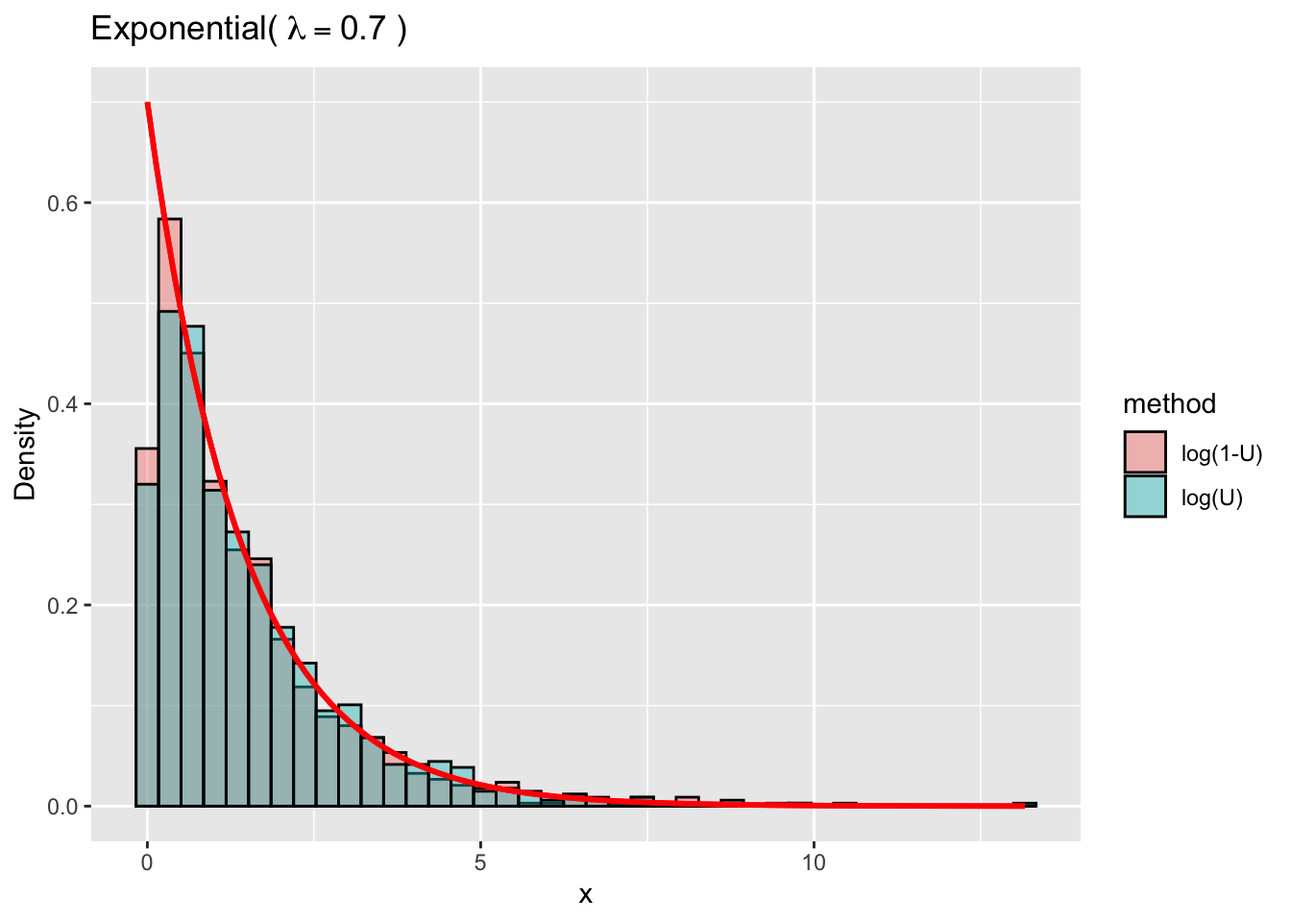
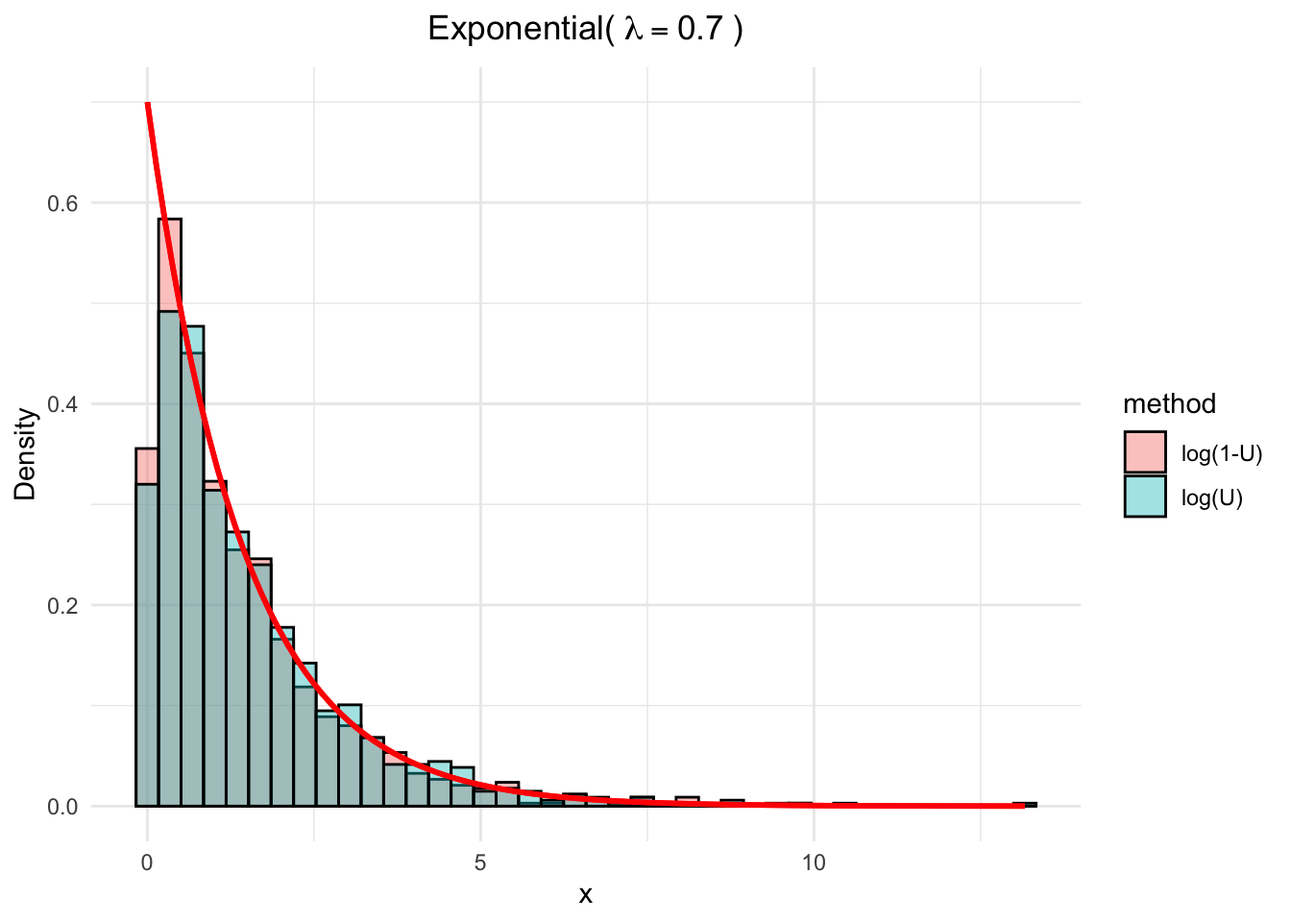
update Section 3

diff --git a/course/stat8670/03-generating-rv.html b/course/stat8670/03-generating-rv.html
@@ -480,30 +480,21 @@ P\left(F_X^{-1}(U) \leq x\right) &amp; =P\left(\inf \left\{t: F_X(t)=U\right\} \
 <li><p>Simulate <span class="math inline">\(N=1000\)</span> rvs from <span class="math inline">\(u\sum \operatorname{Unif}(0,1)\)</span> and apply the inverse function to obtain the 1000 <span class="math inline">\(x\)</span> values.</p></li>
 </ol>
 <div class="cell">
-<div class="code-copy-outer-scaffold"><div class="sourceCode cell-code" id="cb7"><pre class="sourceCode r code-with-copy"><code class="sourceCode r"><span id="cb7-1"><a href="#cb7-1" aria-hidden="true" tabindex="-1"></a><span class="fu">library</span>(ggplot2)</span>
-<span id="cb7-2"><a href="#cb7-2" aria-hidden="true" tabindex="-1"></a><span class="fu">set.seed</span>(<span class="dv">777</span>)</span>
-<span id="cb7-3"><a href="#cb7-3" aria-hidden="true" tabindex="-1"></a>N <span class="ot">&lt;-</span> <span class="dv">1000</span></span>
-<span id="cb7-4"><a href="#cb7-4" aria-hidden="true" tabindex="-1"></a>uVec <span class="ot">&lt;-</span> <span class="fu">runif</span>(N)</span>
-<span id="cb7-5"><a href="#cb7-5" aria-hidden="true" tabindex="-1"></a>xVec <span class="ot">&lt;-</span> uVec<span class="sc">^</span>(<span class="dv">1</span><span class="sc">/</span><span class="dv">3</span>)</span>
-<span id="cb7-6"><a href="#cb7-6" aria-hidden="true" tabindex="-1"></a></span>
-<span id="cb7-7"><a href="#cb7-7" aria-hidden="true" tabindex="-1"></a>df <span class="ot">&lt;-</span> <span class="fu">data.frame</span>(<span class="at">x =</span> xVec)</span>
-<span id="cb7-8"><a href="#cb7-8" aria-hidden="true" tabindex="-1"></a></span>
-<span id="cb7-9"><a href="#cb7-9" aria-hidden="true" tabindex="-1"></a><span class="co"># Density histogram with theoretical density overlay</span></span>
-<span id="cb7-10"><a href="#cb7-10" aria-hidden="true" tabindex="-1"></a><span class="fu">ggplot</span>(df, <span class="fu">aes</span>(x)) <span class="sc">+</span></span>
-<span id="cb7-11"><a href="#cb7-11" aria-hidden="true" tabindex="-1"></a>  <span class="fu">geom_histogram</span>(<span class="fu">aes</span>(<span class="at">y =</span> ..density..), <span class="at">bins =</span> <span class="dv">30</span>,</span>
-<span id="cb7-12"><a href="#cb7-12" aria-hidden="true" tabindex="-1"></a>                 <span class="at">fill =</span> <span class="st">"lightblue"</span>, <span class="at">color =</span> <span class="st">"black"</span>) <span class="sc">+</span></span>
-<span id="cb7-13"><a href="#cb7-13" aria-hidden="true" tabindex="-1"></a>  <span class="fu">stat_function</span>(<span class="at">fun =</span> <span class="cf">function</span>(x) <span class="dv">3</span><span class="sc">*</span>x<span class="sc">^</span><span class="dv">2</span>,</span>
-<span id="cb7-14"><a href="#cb7-14" aria-hidden="true" tabindex="-1"></a>                <span class="at">color =</span> <span class="st">"red"</span>, <span class="at">size =</span> <span class="dv">1</span>) <span class="sc">+</span></span>
-<span id="cb7-15"><a href="#cb7-15" aria-hidden="true" tabindex="-1"></a>  <span class="fu">labs</span>(<span class="at">title =</span> <span class="fu">expression</span>(<span class="fu">f</span>(x) <span class="sc">==</span> <span class="dv">3</span><span class="sc">*</span>x<span class="sc">^</span><span class="dv">2</span>),</span>
-<span id="cb7-16"><a href="#cb7-16" aria-hidden="true" tabindex="-1"></a>       <span class="at">y =</span> <span class="st">"Density"</span>, <span class="at">x =</span> <span class="st">"x"</span>)</span></code></pre></div><button title="Copy to Clipboard" class="code-copy-button"><i class="bi"></i></button></div>
-<div class="cell-output cell-output-stderr">
-<pre><code>Warning: Using `size` aesthetic for lines was deprecated in ggplot2 3.4.0.
-ℹ Please use `linewidth` instead.</code></pre>
-</div>
-<div class="cell-output cell-output-stderr">
-<pre><code>Warning: The dot-dot notation (`..density..`) was deprecated in ggplot2 3.4.0.
-ℹ Please use `after_stat(density)` instead.</code></pre>
-</div>
+<div class="code-copy-outer-scaffold"><div class="sourceCode cell-code" id="cb7"><pre class="sourceCode r code-with-copy"><code class="sourceCode r"><span id="cb7-1"><a href="#cb7-1" aria-hidden="true" tabindex="-1"></a><span class="fu">set.seed</span>(<span class="dv">777</span>)</span>
+<span id="cb7-2"><a href="#cb7-2" aria-hidden="true" tabindex="-1"></a>N <span class="ot">&lt;-</span> <span class="dv">1000</span></span>
+<span id="cb7-3"><a href="#cb7-3" aria-hidden="true" tabindex="-1"></a>uVec <span class="ot">&lt;-</span> <span class="fu">runif</span>(N)</span>
+<span id="cb7-4"><a href="#cb7-4" aria-hidden="true" tabindex="-1"></a>xVec <span class="ot">&lt;-</span> uVec<span class="sc">^</span>(<span class="dv">1</span><span class="sc">/</span><span class="dv">3</span>)</span>
+<span id="cb7-5"><a href="#cb7-5" aria-hidden="true" tabindex="-1"></a></span>
+<span id="cb7-6"><a href="#cb7-6" aria-hidden="true" tabindex="-1"></a>df <span class="ot">&lt;-</span> <span class="fu">data.frame</span>(<span class="at">x =</span> xVec)</span>
+<span id="cb7-7"><a href="#cb7-7" aria-hidden="true" tabindex="-1"></a></span>
+<span id="cb7-8"><a href="#cb7-8" aria-hidden="true" tabindex="-1"></a><span class="co"># Density histogram with theoretical density overlay</span></span>
+<span id="cb7-9"><a href="#cb7-9" aria-hidden="true" tabindex="-1"></a><span class="fu">ggplot</span>(df, <span class="fu">aes</span>(x)) <span class="sc">+</span></span>
+<span id="cb7-10"><a href="#cb7-10" aria-hidden="true" tabindex="-1"></a>  <span class="fu">geom_histogram</span>(<span class="fu">aes</span>(<span class="at">y =</span> ..density..), <span class="at">bins =</span> <span class="dv">30</span>,</span>
+<span id="cb7-11"><a href="#cb7-11" aria-hidden="true" tabindex="-1"></a>                 <span class="at">fill =</span> <span class="st">"lightblue"</span>, <span class="at">color =</span> <span class="st">"black"</span>) <span class="sc">+</span></span>
+<span id="cb7-12"><a href="#cb7-12" aria-hidden="true" tabindex="-1"></a>  <span class="fu">stat_function</span>(<span class="at">fun =</span> <span class="cf">function</span>(x) <span class="dv">3</span><span class="sc">*</span>x<span class="sc">^</span><span class="dv">2</span>,</span>
+<span id="cb7-13"><a href="#cb7-13" aria-hidden="true" tabindex="-1"></a>                <span class="at">color =</span> <span class="st">"red"</span>, <span class="at">size =</span> <span class="dv">1</span>) <span class="sc">+</span></span>
+<span id="cb7-14"><a href="#cb7-14" aria-hidden="true" tabindex="-1"></a>  <span class="fu">labs</span>(<span class="at">title =</span> <span class="fu">expression</span>(<span class="fu">f</span>(x) <span class="sc">==</span> <span class="dv">3</span><span class="sc">*</span>x<span class="sc">^</span><span class="dv">2</span>),</span>
+<span id="cb7-15"><a href="#cb7-15" aria-hidden="true" tabindex="-1"></a>       <span class="at">y =</span> <span class="st">"Density"</span>, <span class="at">x =</span> <span class="st">"x"</span>) <span class="sc">+</span> <span class="fu">theme_minimal</span>()</span></code></pre></div><button title="Copy to Clipboard" class="code-copy-button"><i class="bi"></i></button></div>
 <div class="cell-output-display">
 <div>
 <figure class="figure">
@@ -513,44 +504,32 @@ P\left(F_X^{-1}(U) \leq x\right) &amp; =P\left(\inf \left\{t: F_X(t)=U\right\} \
 </div>
 </div>
 </div>
-<p>::: {.callout-example, title = “Exponential”}</p>
+<div class="callout-example" title="Exponential">
 <p>Suppose <span class="math inline">\(X\sim \exp(\lambda)\)</span> where <span class="math inline">\(\lambda\)</span> is the rate parameter. Then <span class="math inline">\(F_X(x) = 1 - e^{-\lambda x}\)</span>, so the inverse function is <span class="math inline">\(F_X^{-1}(u) = -\frac{1}{\lambda}\log(1-u)\)</span>. The other fact, is the <span class="math inline">\(U\)</span> and <span class="math inline">\(1-U\)</span> have the same distribution, so we can use either of them, i.e., <span class="math inline">\(x= -\frac{1}{\lambda}\log(u)\)</span> or <span class="math inline">\(x= -\frac{1}{\lambda}\log(1-u)\)</span>.</p>
 <div class="cell">
-<div class="code-copy-outer-scaffold"><div class="sourceCode cell-code" id="cb10"><pre class="sourceCode r code-with-copy"><code class="sourceCode r"><span id="cb10-1"><a href="#cb10-1" aria-hidden="true" tabindex="-1"></a><span class="fu">set.seed</span>(<span class="dv">777</span>)</span>
-<span id="cb10-2"><a href="#cb10-2" aria-hidden="true" tabindex="-1"></a>N <span class="ot">&lt;-</span> <span class="dv">1000</span></span>
-<span id="cb10-3"><a href="#cb10-3" aria-hidden="true" tabindex="-1"></a>lambda <span class="ot">&lt;-</span> <span class="fl">0.7</span></span>
-<span id="cb10-4"><a href="#cb10-4" aria-hidden="true" tabindex="-1"></a>uVec <span class="ot">&lt;-</span> <span class="fu">runif</span>(N)</span>
-<span id="cb10-5"><a href="#cb10-5" aria-hidden="true" tabindex="-1"></a>xVec_1 <span class="ot">&lt;-</span> <span class="sc">-</span> (<span class="dv">1</span><span class="sc">/</span>lambda) <span class="sc">*</span> <span class="fu">log</span>(uVec)</span>
-<span id="cb10-6"><a href="#cb10-6" aria-hidden="true" tabindex="-1"></a>xVec_2 <span class="ot">&lt;-</span> <span class="sc">-</span> (<span class="dv">1</span><span class="sc">/</span>lambda) <span class="sc">*</span> <span class="fu">log</span>(<span class="dv">1</span><span class="sc">-</span>uVec)</span>
-<span id="cb10-7"><a href="#cb10-7" aria-hidden="true" tabindex="-1"></a></span>
-<span id="cb10-8"><a href="#cb10-8" aria-hidden="true" tabindex="-1"></a><span class="co"># Put data into long format for ggplot</span></span>
-<span id="cb10-9"><a href="#cb10-9" aria-hidden="true" tabindex="-1"></a>df <span class="ot">&lt;-</span> <span class="fu">data.frame</span>(</span>
-<span id="cb10-10"><a href="#cb10-10" aria-hidden="true" tabindex="-1"></a>  <span class="at">value =</span> <span class="fu">c</span>(xVec_1, xVec_2),</span>
-<span id="cb10-11"><a href="#cb10-11" aria-hidden="true" tabindex="-1"></a>  <span class="at">method =</span> <span class="fu">rep</span>(<span class="fu">c</span>(<span class="st">"log(U)"</span>, <span class="st">"log(1-U)"</span>), <span class="at">each =</span> N)</span>
-<span id="cb10-12"><a href="#cb10-12" aria-hidden="true" tabindex="-1"></a>)</span>
-<span id="cb10-13"><a href="#cb10-13" aria-hidden="true" tabindex="-1"></a></span>
-<span id="cb10-14"><a href="#cb10-14" aria-hidden="true" tabindex="-1"></a><span class="co"># Theoretical density function</span></span>
-<span id="cb10-15"><a href="#cb10-15" aria-hidden="true" tabindex="-1"></a>exp_density <span class="ot">&lt;-</span> <span class="cf">function</span>(x) lambda <span class="sc">*</span> <span class="fu">exp</span>(<span class="sc">-</span>lambda <span class="sc">*</span> x)</span>
-<span id="cb10-16"><a href="#cb10-16" aria-hidden="true" tabindex="-1"></a></span>
-<span id="cb10-17"><a href="#cb10-17" aria-hidden="true" tabindex="-1"></a><span class="co"># Plot</span></span>
-<span id="cb10-18"><a href="#cb10-18" aria-hidden="true" tabindex="-1"></a><span class="fu">ggplot</span>(df, <span class="fu">aes</span>(<span class="at">x =</span> value, <span class="at">fill =</span> method)) <span class="sc">+</span></span>
-<span id="cb10-19"><a href="#cb10-19" aria-hidden="true" tabindex="-1"></a>  <span class="fu">geom_histogram</span>(<span class="fu">aes</span>(<span class="at">y =</span> ..density..), <span class="at">bins =</span> <span class="dv">40</span>,</span>
-<span id="cb10-20"><a href="#cb10-20" aria-hidden="true" tabindex="-1"></a>                 <span class="at">position =</span> <span class="st">"identity"</span>, <span class="at">alpha =</span> <span class="fl">0.4</span>, <span class="at">color =</span> <span class="st">"black"</span>) <span class="sc">+</span></span>
-<span id="cb10-21"><a href="#cb10-21" aria-hidden="true" tabindex="-1"></a>  <span class="fu">stat_function</span>(<span class="at">fun =</span> exp_density, <span class="at">color =</span> <span class="st">"red"</span>, <span class="at">size =</span> <span class="dv">1</span>) <span class="sc">+</span></span>
-<span id="cb10-22"><a href="#cb10-22" aria-hidden="true" tabindex="-1"></a>  <span class="fu">labs</span>(<span class="at">title =</span> <span class="fu">bquote</span>(<span class="st">"Exponential("</span> <span class="sc">~</span> lambda <span class="sc">==</span> .(lambda) <span class="sc">~</span> <span class="st">")"</span>),</span>
-<span id="cb10-23"><a href="#cb10-23" aria-hidden="true" tabindex="-1"></a>       <span class="at">x =</span> <span class="st">"x"</span>, <span class="at">y =</span> <span class="st">"Density"</span>) </span></code></pre></div><button title="Copy to Clipboard" class="code-copy-button"><i class="bi"></i></button></div>
-<div class="cell-output cell-output-stderr">
-<pre><code>Warning: Using `size` aesthetic for lines was deprecated in ggplot2 3.4.0.
-ℹ Please use `linewidth` instead.</code></pre>
-</div>
-<div class="cell-output cell-output-stderr">
-<pre><code>Warning: The dot-dot notation (`..density..`) was deprecated in ggplot2 3.4.0.
-ℹ Please use `after_stat(density)` instead.</code></pre>
-</div>
-<div class="cell-output cell-output-stderr">
-<pre><code>Warning: Multiple drawing groups in `geom_function()`
-ℹ Did you use the correct group, colour, or fill aesthetics?</code></pre>
-</div>
+<div class="code-copy-outer-scaffold"><div class="sourceCode cell-code" id="cb8"><pre class="sourceCode r code-with-copy"><code class="sourceCode r"><span id="cb8-1"><a href="#cb8-1" aria-hidden="true" tabindex="-1"></a><span class="fu">set.seed</span>(<span class="dv">777</span>)</span>
+<span id="cb8-2"><a href="#cb8-2" aria-hidden="true" tabindex="-1"></a>N <span class="ot">&lt;-</span> <span class="dv">1000</span></span>
+<span id="cb8-3"><a href="#cb8-3" aria-hidden="true" tabindex="-1"></a>lambda <span class="ot">&lt;-</span> <span class="fl">0.7</span></span>
+<span id="cb8-4"><a href="#cb8-4" aria-hidden="true" tabindex="-1"></a>uVec <span class="ot">&lt;-</span> <span class="fu">runif</span>(N)</span>
+<span id="cb8-5"><a href="#cb8-5" aria-hidden="true" tabindex="-1"></a>xVec_1 <span class="ot">&lt;-</span> <span class="sc">-</span> (<span class="dv">1</span><span class="sc">/</span>lambda) <span class="sc">*</span> <span class="fu">log</span>(uVec)</span>
+<span id="cb8-6"><a href="#cb8-6" aria-hidden="true" tabindex="-1"></a>xVec_2 <span class="ot">&lt;-</span> <span class="sc">-</span> (<span class="dv">1</span><span class="sc">/</span>lambda) <span class="sc">*</span> <span class="fu">log</span>(<span class="dv">1</span><span class="sc">-</span>uVec)</span>
+<span id="cb8-7"><a href="#cb8-7" aria-hidden="true" tabindex="-1"></a></span>
+<span id="cb8-8"><a href="#cb8-8" aria-hidden="true" tabindex="-1"></a><span class="co"># Put data into long format for ggplot</span></span>
+<span id="cb8-9"><a href="#cb8-9" aria-hidden="true" tabindex="-1"></a>df <span class="ot">&lt;-</span> <span class="fu">data.frame</span>(</span>
+<span id="cb8-10"><a href="#cb8-10" aria-hidden="true" tabindex="-1"></a>  <span class="at">value =</span> <span class="fu">c</span>(xVec_1, xVec_2),</span>
+<span id="cb8-11"><a href="#cb8-11" aria-hidden="true" tabindex="-1"></a>  <span class="at">method =</span> <span class="fu">rep</span>(<span class="fu">c</span>(<span class="st">"log(U)"</span>, <span class="st">"log(1-U)"</span>), <span class="at">each =</span> N)</span>
+<span id="cb8-12"><a href="#cb8-12" aria-hidden="true" tabindex="-1"></a>)</span>
+<span id="cb8-13"><a href="#cb8-13" aria-hidden="true" tabindex="-1"></a></span>
+<span id="cb8-14"><a href="#cb8-14" aria-hidden="true" tabindex="-1"></a><span class="co"># Theoretical density function</span></span>
+<span id="cb8-15"><a href="#cb8-15" aria-hidden="true" tabindex="-1"></a>exp_density <span class="ot">&lt;-</span> <span class="cf">function</span>(x) lambda <span class="sc">*</span> <span class="fu">exp</span>(<span class="sc">-</span>lambda <span class="sc">*</span> x)</span>
+<span id="cb8-16"><a href="#cb8-16" aria-hidden="true" tabindex="-1"></a></span>
+<span id="cb8-17"><a href="#cb8-17" aria-hidden="true" tabindex="-1"></a><span class="co"># Plot</span></span>
+<span id="cb8-18"><a href="#cb8-18" aria-hidden="true" tabindex="-1"></a><span class="fu">ggplot</span>(df, <span class="fu">aes</span>(<span class="at">x =</span> value, <span class="at">fill =</span> method)) <span class="sc">+</span></span>
+<span id="cb8-19"><a href="#cb8-19" aria-hidden="true" tabindex="-1"></a>  <span class="fu">geom_histogram</span>(<span class="fu">aes</span>(<span class="at">y =</span> ..density..), <span class="at">bins =</span> <span class="dv">40</span>,</span>
+<span id="cb8-20"><a href="#cb8-20" aria-hidden="true" tabindex="-1"></a>                 <span class="at">position =</span> <span class="st">"identity"</span>, <span class="at">alpha =</span> <span class="fl">0.4</span>, <span class="at">color =</span> <span class="st">"black"</span>) <span class="sc">+</span></span>
+<span id="cb8-21"><a href="#cb8-21" aria-hidden="true" tabindex="-1"></a>  <span class="fu">stat_function</span>(<span class="at">fun =</span> exp_density, <span class="at">color =</span> <span class="st">"red"</span>, <span class="at">size =</span> <span class="dv">1</span>) <span class="sc">+</span></span>
+<span id="cb8-22"><a href="#cb8-22" aria-hidden="true" tabindex="-1"></a>  <span class="fu">labs</span>(<span class="at">title =</span> <span class="fu">bquote</span>(<span class="st">"Exponential("</span> <span class="sc">~</span> lambda <span class="sc">==</span> .(lambda) <span class="sc">~</span> <span class="st">")"</span>),</span>
+<span id="cb8-23"><a href="#cb8-23" aria-hidden="true" tabindex="-1"></a>       <span class="at">x =</span> <span class="st">"x"</span>, <span class="at">y =</span> <span class="st">"Density"</span>) </span></code></pre></div><button title="Copy to Clipboard" class="code-copy-button"><i class="bi"></i></button></div>
 <div class="cell-output-display">
 <div>
 <figure class="figure">
@@ -559,7 +538,7 @@ P\left(F_X^{-1}(U) \leq x\right) &amp; =P\left(\inf \left\{t: F_X(t)=U\right\} \
 </div>
 </div>
 </div>
-<p>:::</p>
+</div>
 </section>
 <section id="discrete-case" class="level3" data-number="3.2.2">
 <h3 data-number="3.2.2" class="anchored" data-anchor-id="discrete-case"><span class="header-section-number">3.2.2</span> Discrete case</h3>
@@ -599,13 +578,13 @@ F_X^{-1}(u) =
 \]</span></p>
 <p>The generator should therefore deliver the numerical value of the logical expression <span class="math inline">\(u &gt; 0.6\)</span>.</p>
 <div class="cell">
-<div class="code-copy-outer-scaffold"><div class="sourceCode cell-code" id="cb14"><pre class="sourceCode r code-with-copy"><code class="sourceCode r"><span id="cb14-1"><a href="#cb14-1" aria-hidden="true" tabindex="-1"></a><span class="fu">set.seed</span>(<span class="dv">777</span>)</span>
-<span id="cb14-2"><a href="#cb14-2" aria-hidden="true" tabindex="-1"></a>n <span class="ot">&lt;-</span> <span class="dv">1000</span></span>
-<span id="cb14-3"><a href="#cb14-3" aria-hidden="true" tabindex="-1"></a>p <span class="ot">&lt;-</span> <span class="fl">0.4</span></span>
-<span id="cb14-4"><a href="#cb14-4" aria-hidden="true" tabindex="-1"></a>u <span class="ot">&lt;-</span> <span class="fu">runif</span>(n)</span>
-<span id="cb14-5"><a href="#cb14-5" aria-hidden="true" tabindex="-1"></a>x <span class="ot">&lt;-</span> <span class="fu">as.integer</span>(u <span class="sc">&gt;</span> <span class="fl">0.6</span>)  <span class="co"># (u &gt; 0.6) is a logical vector</span></span>
-<span id="cb14-6"><a href="#cb14-6" aria-hidden="true" tabindex="-1"></a></span>
-<span id="cb14-7"><a href="#cb14-7" aria-hidden="true" tabindex="-1"></a>(m_x <span class="ot">&lt;-</span> <span class="fu">mean</span>(x));  (v_x <span class="ot">&lt;-</span> <span class="fu">var</span>(x))</span></code></pre></div><button title="Copy to Clipboard" class="code-copy-button"><i class="bi"></i></button></div>
+<div class="code-copy-outer-scaffold"><div class="sourceCode cell-code" id="cb9"><pre class="sourceCode r code-with-copy"><code class="sourceCode r"><span id="cb9-1"><a href="#cb9-1" aria-hidden="true" tabindex="-1"></a><span class="fu">set.seed</span>(<span class="dv">777</span>)</span>
+<span id="cb9-2"><a href="#cb9-2" aria-hidden="true" tabindex="-1"></a>n <span class="ot">&lt;-</span> <span class="dv">1000</span></span>
+<span id="cb9-3"><a href="#cb9-3" aria-hidden="true" tabindex="-1"></a>p <span class="ot">&lt;-</span> <span class="fl">0.4</span></span>
+<span id="cb9-4"><a href="#cb9-4" aria-hidden="true" tabindex="-1"></a>u <span class="ot">&lt;-</span> <span class="fu">runif</span>(n)</span>
+<span id="cb9-5"><a href="#cb9-5" aria-hidden="true" tabindex="-1"></a>x <span class="ot">&lt;-</span> <span class="fu">as.integer</span>(u <span class="sc">&gt;</span> <span class="fl">0.6</span>)  <span class="co"># (u &gt; 0.6) is a logical vector</span></span>
+<span id="cb9-6"><a href="#cb9-6" aria-hidden="true" tabindex="-1"></a></span>
+<span id="cb9-7"><a href="#cb9-7" aria-hidden="true" tabindex="-1"></a>(m_x <span class="ot">&lt;-</span> <span class="fu">mean</span>(x));  (v_x <span class="ot">&lt;-</span> <span class="fu">var</span>(x))</span></code></pre></div><button title="Copy to Clipboard" class="code-copy-button"><i class="bi"></i></button></div>
 <div class="cell-output cell-output-stdout">
 <pre><code>[1] 0.381</code></pre>
 </div>
@@ -626,24 +605,25 @@ F(x) = 1 - q^{x+1}.
 x + 1 = \left\lceil \frac{\log(1 - u)}{\log(q)} \right\rceil,
 \]</span> where <span class="math inline">\(\lceil \cdot \rceil\)</span> denotes the ceiling function (and <span class="math inline">\(\lfloor \cdot \rfloor\)</span> is the floor function). Hence, we have,</p>
 <div class="cell">
-<div class="code-copy-outer-scaffold"><div class="sourceCode cell-code" id="cb17"><pre class="sourceCode r code-with-copy"><code class="sourceCode r"><span id="cb17-1"><a href="#cb17-1" aria-hidden="true" tabindex="-1"></a><span class="fu">set.seed</span>(<span class="dv">999</span>)</span>
-<span id="cb17-2"><a href="#cb17-2" aria-hidden="true" tabindex="-1"></a>n <span class="ot">&lt;-</span> <span class="dv">1000</span></span>
-<span id="cb17-3"><a href="#cb17-3" aria-hidden="true" tabindex="-1"></a>p <span class="ot">&lt;-</span> <span class="fl">0.25</span></span>
-<span id="cb17-4"><a href="#cb17-4" aria-hidden="true" tabindex="-1"></a>u <span class="ot">&lt;-</span> <span class="fu">runif</span>(n)</span>
-<span id="cb17-5"><a href="#cb17-5" aria-hidden="true" tabindex="-1"></a>k1 <span class="ot">&lt;-</span> <span class="fu">ceiling</span>(<span class="fu">log</span>(<span class="dv">1</span><span class="sc">-</span>u) <span class="sc">/</span> <span class="fu">log</span>(<span class="dv">1</span><span class="sc">-</span>p)) <span class="sc">-</span> <span class="dv">1</span></span></code></pre></div><button title="Copy to Clipboard" class="code-copy-button"><i class="bi"></i></button></div>
+<div class="code-copy-outer-scaffold"><div class="sourceCode cell-code" id="cb12"><pre class="sourceCode r code-with-copy"><code class="sourceCode r"><span id="cb12-1"><a href="#cb12-1" aria-hidden="true" tabindex="-1"></a><span class="fu">set.seed</span>(<span class="dv">999</span>)</span>
+<span id="cb12-2"><a href="#cb12-2" aria-hidden="true" tabindex="-1"></a>n <span class="ot">&lt;-</span> <span class="dv">1000</span></span>
+<span id="cb12-3"><a href="#cb12-3" aria-hidden="true" tabindex="-1"></a>p <span class="ot">&lt;-</span> <span class="fl">0.25</span></span>
+<span id="cb12-4"><a href="#cb12-4" aria-hidden="true" tabindex="-1"></a>u <span class="ot">&lt;-</span> <span class="fu">runif</span>(n)</span>
+<span id="cb12-5"><a href="#cb12-5" aria-hidden="true" tabindex="-1"></a>k1 <span class="ot">&lt;-</span> <span class="fu">ceiling</span>(<span class="fu">log</span>(<span class="dv">1</span><span class="sc">-</span>u) <span class="sc">/</span> <span class="fu">log</span>(<span class="dv">1</span><span class="sc">-</span>p)) <span class="sc">-</span> <span class="dv">1</span></span></code></pre></div><button title="Copy to Clipboard" class="code-copy-button"><i class="bi"></i></button></div>
 </div>
 <p>Note again that <span class="math inline">\(U\)</span> and <span class="math inline">\(1 - U\)</span> have the same distribution. Also, the probability that <span class="math inline">\(\log(1 - u)/\log(1 - p)\)</span> equals an integer is zero. Thus, we can simplify it to</p>
 <div class="cell">
-<div class="code-copy-outer-scaffold"><div class="sourceCode cell-code" id="cb18"><pre class="sourceCode r code-with-copy"><code class="sourceCode r"><span id="cb18-1"><a href="#cb18-1" aria-hidden="true" tabindex="-1"></a>k2 <span class="ot">&lt;-</span> <span class="fu">floor</span>(<span class="fu">log</span>(u) <span class="sc">/</span> <span class="fu">log</span>(<span class="dv">1</span><span class="sc">-</span>p))</span>
-<span id="cb18-2"><a href="#cb18-2" aria-hidden="true" tabindex="-1"></a>df <span class="ot">&lt;-</span> <span class="fu">data.frame</span>(</span>
-<span id="cb18-3"><a href="#cb18-3" aria-hidden="true" tabindex="-1"></a>  <span class="at">value =</span> <span class="fu">c</span>(k1, k2),</span>
-<span id="cb18-4"><a href="#cb18-4" aria-hidden="true" tabindex="-1"></a>  <span class="at">group =</span> <span class="fu">rep</span>(<span class="fu">c</span>(<span class="st">"k1"</span>, <span class="st">"k2"</span>), <span class="at">each =</span> <span class="fu">length</span>(k1))</span>
-<span id="cb18-5"><a href="#cb18-5" aria-hidden="true" tabindex="-1"></a>)</span>
-<span id="cb18-6"><a href="#cb18-6" aria-hidden="true" tabindex="-1"></a></span>
-<span id="cb18-7"><a href="#cb18-7" aria-hidden="true" tabindex="-1"></a><span class="co"># Plot both histograms side by side</span></span>
-<span id="cb18-8"><a href="#cb18-8" aria-hidden="true" tabindex="-1"></a><span class="fu">ggplot</span>(df, <span class="fu">aes</span>(<span class="at">x =</span> value, <span class="at">fill =</span> group)) <span class="sc">+</span></span>
-<span id="cb18-9"><a href="#cb18-9" aria-hidden="true" tabindex="-1"></a>  <span class="fu">geom_histogram</span>(<span class="at">alpha =</span> <span class="fl">0.6</span>, <span class="at">position =</span> <span class="st">"identity"</span>, <span class="at">bins =</span> <span class="dv">40</span>, <span class="at">color =</span> <span class="st">"black"</span>) <span class="sc">+</span></span>
-<span id="cb18-10"><a href="#cb18-10" aria-hidden="true" tabindex="-1"></a>  <span class="fu">labs</span>(<span class="at">title =</span> <span class="st">"Histograms of k1 and k2"</span>, <span class="at">x =</span> <span class="st">"Value"</span>, <span class="at">y =</span> <span class="st">"Count"</span>)</span></code></pre></div><button title="Copy to Clipboard" class="code-copy-button"><i class="bi"></i></button></div>
+<div class="code-copy-outer-scaffold"><div class="sourceCode cell-code" id="cb13"><pre class="sourceCode r code-with-copy"><code class="sourceCode r"><span id="cb13-1"><a href="#cb13-1" aria-hidden="true" tabindex="-1"></a>k2 <span class="ot">&lt;-</span> <span class="fu">floor</span>(<span class="fu">log</span>(u) <span class="sc">/</span> <span class="fu">log</span>(<span class="dv">1</span><span class="sc">-</span>p))</span>
+<span id="cb13-2"><a href="#cb13-2" aria-hidden="true" tabindex="-1"></a>df <span class="ot">&lt;-</span> <span class="fu">data.frame</span>(</span>
+<span id="cb13-3"><a href="#cb13-3" aria-hidden="true" tabindex="-1"></a>  <span class="at">value =</span> <span class="fu">c</span>(k1, k2),</span>
+<span id="cb13-4"><a href="#cb13-4" aria-hidden="true" tabindex="-1"></a>  <span class="at">group =</span> <span class="fu">rep</span>(<span class="fu">c</span>(<span class="st">"k1"</span>, <span class="st">"k2"</span>), <span class="at">each =</span> <span class="fu">length</span>(k1))</span>
+<span id="cb13-5"><a href="#cb13-5" aria-hidden="true" tabindex="-1"></a>)</span>
+<span id="cb13-6"><a href="#cb13-6" aria-hidden="true" tabindex="-1"></a></span>
+<span id="cb13-7"><a href="#cb13-7" aria-hidden="true" tabindex="-1"></a><span class="co"># Plot both histograms side by side</span></span>
+<span id="cb13-8"><a href="#cb13-8" aria-hidden="true" tabindex="-1"></a><span class="fu">ggplot</span>(df, <span class="fu">aes</span>(<span class="at">x =</span> value, <span class="at">fill =</span> group)) <span class="sc">+</span></span>
+<span id="cb13-9"><a href="#cb13-9" aria-hidden="true" tabindex="-1"></a>  <span class="fu">geom_histogram</span>(<span class="at">alpha =</span> <span class="fl">0.6</span>, <span class="at">position =</span> <span class="st">"identity"</span>, <span class="at">bins =</span> <span class="dv">40</span>, <span class="at">color =</span> <span class="st">"black"</span>) <span class="sc">+</span></span>
+<span id="cb13-10"><a href="#cb13-10" aria-hidden="true" tabindex="-1"></a>  <span class="fu">labs</span>(<span class="at">title =</span> <span class="st">"Histograms of k1 and k2"</span>, <span class="at">x =</span> <span class="st">"Value"</span>, <span class="at">y =</span> <span class="st">"Count"</span>) <span class="sc">+</span> </span>
+<span id="cb13-11"><a href="#cb13-11" aria-hidden="true" tabindex="-1"></a>  <span class="fu">theme_minimal</span>()</span></code></pre></div><button title="Copy to Clipboard" class="code-copy-button"><i class="bi"></i></button></div>
 <div class="cell-output-display">
 <div>
 <figure class="figure">
@@ -685,12 +665,12 @@ F(x+1) = F(x) + f(x+1).
 </div>
 <p>Why it work?Note that in Step 2c, <span class="math display">\[
 P(\text{accept} \mid Y)
-= P\!\left(U &lt; \frac{f(Y)}{c g(Y)} \,\Big|\, Y\right)
-= \frac{f_X(Y)}{c g_X(Y)}.
+= P\!\left(U &lt; \frac{f(Y)}{k g(Y)} \,\Big|\, Y\right)
+= \frac{f_X(Y)}{k g_X(Y)}.
 \]</span></p>
 <p>The total probability of acceptance for any iteration is therefore <span class="math display">\[
 \sum_y P(\text{accept} \mid y) P(Y = y)
-= \sum_y \frac{f(y)}{c g(y)} g(y)
+= \sum_y \frac{f(y)}{k g(y)} g(y)
 = \frac{1}{k},
 \]</span> and the number of iterations until acceptance has the geometric distribution with mean <span class="math inline">\(k\)</span>. That means, in order to sample <span class="math inline">\(X\)</span>, in average, we need <span class="math inline">\(k\)</span> iterations.</p>
 <p>Note: The choice of <span class="math inline">\(Y\)</span> and <span class="math inline">\(k\)</span> is crucial for the efficiency of the ARM. A poor choice can lead to a large <span class="math inline">\(k\)</span>, resulting in many rejections and inefficiency. We want <span class="math inline">\(Y\)</span> to be easy to simulate, and <span class="math inline">\(k\)</span> to be as small as possible.</p>
@@ -714,24 +694,24 @@ f(t) = 6t(1-t), \quad 0 &lt; t &lt; 1.
 \]</span></p>
 <p>On average, <span class="math inline">\(kN = 6\cdot 1000 =6000\)</span> iterations (12000 random numbers as we need <span class="math inline">\(X\)</span> and <span class="math inline">\(Y\)</span>) will be required for <span class="math inline">\(N=1000\)</span>. In the following simulation, the counter <span class="math inline">\(\operatorname{iter}\)</span> for iterations is not necessary, but included to record how many iterations were actually needed to generate the 1000 beta rvs.</p>
 <div class="cell">
-<div class="code-copy-outer-scaffold"><div class="sourceCode cell-code" id="cb19"><pre class="sourceCode r code-with-copy"><code class="sourceCode r"><span id="cb19-1"><a href="#cb19-1" aria-hidden="true" tabindex="-1"></a><span class="fu">set.seed</span>(<span class="dv">7777</span>)</span>
-<span id="cb19-2"><a href="#cb19-2" aria-hidden="true" tabindex="-1"></a>N <span class="ot">&lt;-</span> <span class="dv">1000</span></span>
-<span id="cb19-3"><a href="#cb19-3" aria-hidden="true" tabindex="-1"></a>ell_accept <span class="ot">&lt;-</span> <span class="dv">0</span>       <span class="co"># counter for accepted</span></span>
-<span id="cb19-4"><a href="#cb19-4" aria-hidden="true" tabindex="-1"></a>iter <span class="ot">&lt;-</span> <span class="dv">0</span>       <span class="co"># iterations</span></span>
-<span id="cb19-5"><a href="#cb19-5" aria-hidden="true" tabindex="-1"></a>y <span class="ot">&lt;-</span> <span class="fu">rep</span>(<span class="dv">0</span>, N)</span>
-<span id="cb19-6"><a href="#cb19-6" aria-hidden="true" tabindex="-1"></a></span>
-<span id="cb19-7"><a href="#cb19-7" aria-hidden="true" tabindex="-1"></a><span class="cf">while</span> (ell_accept <span class="sc">&lt;</span> N) {</span>
-<span id="cb19-8"><a href="#cb19-8" aria-hidden="true" tabindex="-1"></a>  u <span class="ot">&lt;-</span> <span class="fu">runif</span>(<span class="dv">1</span>)</span>
-<span id="cb19-9"><a href="#cb19-9" aria-hidden="true" tabindex="-1"></a>  iter <span class="ot">&lt;-</span> iter <span class="sc">+</span> <span class="dv">1</span></span>
-<span id="cb19-10"><a href="#cb19-10" aria-hidden="true" tabindex="-1"></a>  x <span class="ot">&lt;-</span> <span class="fu">runif</span>(<span class="dv">1</span>)   <span class="co"># random variate from g</span></span>
-<span id="cb19-11"><a href="#cb19-11" aria-hidden="true" tabindex="-1"></a>  <span class="cf">if</span> (x <span class="sc">*</span> (<span class="dv">1</span><span class="sc">-</span>x) <span class="sc">&gt;</span> u) {</span>
-<span id="cb19-12"><a href="#cb19-12" aria-hidden="true" tabindex="-1"></a>    <span class="co"># we accept x</span></span>
-<span id="cb19-13"><a href="#cb19-13" aria-hidden="true" tabindex="-1"></a>    ell_accept <span class="ot">&lt;-</span> ell_accept <span class="sc">+</span> <span class="dv">1</span></span>
-<span id="cb19-14"><a href="#cb19-14" aria-hidden="true" tabindex="-1"></a>    y[ell_accept] <span class="ot">&lt;-</span> x</span>
-<span id="cb19-15"><a href="#cb19-15" aria-hidden="true" tabindex="-1"></a>  }</span>
-<span id="cb19-16"><a href="#cb19-16" aria-hidden="true" tabindex="-1"></a>}</span>
-<span id="cb19-17"><a href="#cb19-17" aria-hidden="true" tabindex="-1"></a></span>
-<span id="cb19-18"><a href="#cb19-18" aria-hidden="true" tabindex="-1"></a>iter</span></code></pre></div><button title="Copy to Clipboard" class="code-copy-button"><i class="bi"></i></button></div>
+<div class="code-copy-outer-scaffold"><div class="sourceCode cell-code" id="cb14"><pre class="sourceCode r code-with-copy"><code class="sourceCode r"><span id="cb14-1"><a href="#cb14-1" aria-hidden="true" tabindex="-1"></a><span class="fu">set.seed</span>(<span class="dv">7777</span>)</span>
+<span id="cb14-2"><a href="#cb14-2" aria-hidden="true" tabindex="-1"></a>N <span class="ot">&lt;-</span> <span class="dv">1000</span></span>
+<span id="cb14-3"><a href="#cb14-3" aria-hidden="true" tabindex="-1"></a>ell_accept <span class="ot">&lt;-</span> <span class="dv">0</span>       <span class="co"># counter for accepted</span></span>
+<span id="cb14-4"><a href="#cb14-4" aria-hidden="true" tabindex="-1"></a>iter <span class="ot">&lt;-</span> <span class="dv">0</span>       <span class="co"># iterations</span></span>
+<span id="cb14-5"><a href="#cb14-5" aria-hidden="true" tabindex="-1"></a>y <span class="ot">&lt;-</span> <span class="fu">rep</span>(<span class="dv">0</span>, N)</span>
+<span id="cb14-6"><a href="#cb14-6" aria-hidden="true" tabindex="-1"></a></span>
+<span id="cb14-7"><a href="#cb14-7" aria-hidden="true" tabindex="-1"></a><span class="cf">while</span> (ell_accept <span class="sc">&lt;</span> N) {</span>
+<span id="cb14-8"><a href="#cb14-8" aria-hidden="true" tabindex="-1"></a>  u <span class="ot">&lt;-</span> <span class="fu">runif</span>(<span class="dv">1</span>)</span>
+<span id="cb14-9"><a href="#cb14-9" aria-hidden="true" tabindex="-1"></a>  iter <span class="ot">&lt;-</span> iter <span class="sc">+</span> <span class="dv">1</span></span>
+<span id="cb14-10"><a href="#cb14-10" aria-hidden="true" tabindex="-1"></a>  x <span class="ot">&lt;-</span> <span class="fu">runif</span>(<span class="dv">1</span>)   <span class="co"># random variate from g</span></span>
+<span id="cb14-11"><a href="#cb14-11" aria-hidden="true" tabindex="-1"></a>  <span class="cf">if</span> (x <span class="sc">*</span> (<span class="dv">1</span><span class="sc">-</span>x) <span class="sc">&gt;</span> u) {</span>
+<span id="cb14-12"><a href="#cb14-12" aria-hidden="true" tabindex="-1"></a>    <span class="co"># we accept x</span></span>
+<span id="cb14-13"><a href="#cb14-13" aria-hidden="true" tabindex="-1"></a>    ell_accept <span class="ot">&lt;-</span> ell_accept <span class="sc">+</span> <span class="dv">1</span></span>
+<span id="cb14-14"><a href="#cb14-14" aria-hidden="true" tabindex="-1"></a>    y[ell_accept] <span class="ot">&lt;-</span> x</span>
+<span id="cb14-15"><a href="#cb14-15" aria-hidden="true" tabindex="-1"></a>  }</span>
+<span id="cb14-16"><a href="#cb14-16" aria-hidden="true" tabindex="-1"></a>}</span>
+<span id="cb14-17"><a href="#cb14-17" aria-hidden="true" tabindex="-1"></a></span>
+<span id="cb14-18"><a href="#cb14-18" aria-hidden="true" tabindex="-1"></a>iter</span></code></pre></div><button title="Copy to Clipboard" class="code-copy-button"><i class="bi"></i></button></div>
 <div class="cell-output cell-output-stdout">
 <pre><code>[1] 5972</code></pre>
 </div>
@@ -743,23 +723,60 @@ f(t) = 6t(1-t), \quad 0 &lt; t &lt; 1.
 <h2 data-number="3.4" class="anchored" data-anchor-id="using-known-probability-distribution-theory"><span class="header-section-number">3.4</span> Using known probability distribution theory</h2>
 <p>Many types of transformations other than the probability inverse transformation can be applied to simulate random variables. Some examples are</p>
 <p>1). If <span class="math inline">\(Z \sim N(0,1)\)</span>, then <span class="math inline">\(V = Z^2 \sim \chi^2(1)\)</span>.</p>
-<p>2). If <span class="math inline">\(U \sim \chi^2(m)\)</span> and <span class="math inline">\(V \sim \chi^2(n)\)</span> are independent, then <span class="math display">\[
+<p>2). If <span class="math inline">\(Z_1,\ldots,Z_n \sim N(0,1)\)</span> are independent, then <span class="math display">\[
+  U = \sum_{i=1}^n Z_i^2 \sim \chi^2(n).
+  \]</span></p>
+<p>3). If <span class="math inline">\(U \sim \chi^2(m)\)</span> and <span class="math inline">\(V \sim \chi^2(n)\)</span> are independent, then <span class="math display">\[
   F = \frac{U/m}{V/n}
   \]</span> has the <span class="math inline">\(F\)</span> distribution with <span class="math inline">\((m,n)\)</span> degrees of freedom.</p>
-<p>3). If <span class="math inline">\(Z \sim N(0,1)\)</span> and <span class="math inline">\(V \sim \chi^2(n)\)</span> are independent, then <span class="math display">\[
+<p>4). If <span class="math inline">\(Z \sim N(0,1)\)</span> and <span class="math inline">\(V \sim \chi^2(n)\)</span> are independent, then <span class="math display">\[
   T = \frac{Z}{\sqrt{V/n}}
   \]</span> has the Student <span class="math inline">\(t\)</span> distribution with <span class="math inline">\(n\)</span> degrees of freedom.</p>
-<p>4). If <span class="math inline">\(U,V \sim \text{Unif}(0,1)\)</span> are independent, then <span class="math display">\[
+<p>5). If <span class="math inline">\(U,V \sim \text{Unif}(0,1)\)</span> are independent, then <span class="math display">\[
   Z_1 = \sqrt{-2 \log U}\, \cos(2\pi V),
   \qquad
   Z_2 = \sqrt{-2 \log U}\, \sin(2\pi V)
   \]</span> are independent standard normal variables.</p>
-<p>5). If <span class="math inline">\(U \sim \text{Gamma}(r,\lambda)\)</span> and <span class="math inline">\(V \sim \text{Gamma}(s,\lambda)\)</span> are independent, then <span class="math display">\[
+<p>6). If <span class="math inline">\(U \sim \text{Gamma}(r,\lambda)\)</span> and <span class="math inline">\(V \sim \text{Gamma}(s,\lambda)\)</span> are independent, then <span class="math display">\[
   X = \frac{U}{U+V}
   \]</span> has the <span class="math inline">\(\text{Beta}(r,s)\)</span> distribution.</p>
-<p>6). If <span class="math inline">\(U,V \sim \text{Unif}(0,1)\)</span> are independent, then <span class="math display">\[
+<p>7). If <span class="math inline">\(U,V \sim \text{Unif}(0,1)\)</span> are independent, then <span class="math display">\[
   X = \left\lfloor 1 + \frac{\log(V)}{\log\big(1 - (1-\theta)U\big)} \right\rfloor.
-  \]</span></p>
+  \]</span> has logarithmic distribution with parameter <span class="math inline">\(\theta\)</span>.</p>
+<div class="callout-example" title="Beta distribution">
+<p>Using the distribution theory, we recall the relationship between beta and gamma distributions provides another beta generator.</p>
+<p>If <span class="math inline">\(U \sim \mathrm{Gamma}(r,\lambda)\)</span> and <span class="math inline">\(V \sim \mathrm{Gamma}(s,\lambda)\)</span> are independent, then <span class="math display">\[
+X=\frac{U}{U+V}
+\]</span> has the <span class="math inline">\(\mathrm{Beta}(r,s)\)</span> distribution. This transformation determines an algorithm for generating random <span class="math inline">\(\mathrm{Beta}(a,b)\)</span> variates.</p>
+<ol type="1">
+<li><p>Generate a random <span class="math inline">\(u\)</span> from <span class="math inline">\(\mathrm{Gamma}(a,1)\)</span>.</p></li>
+<li><p>Generate a random <span class="math inline">\(v\)</span> from <span class="math inline">\(\mathrm{Gamma}(b,1)\)</span>.</p></li>
+<li><p>Obtain <span class="math inline">\(x=\dfrac{u}{u+v}\)</span>.</p></li>
+</ol>
+<p>This method is applied below to generate a random <span class="math inline">\(\mathrm{Beta}(3,2)\)</span> sample.</p>
+<div class="cell">
+<div class="code-copy-outer-scaffold"><div class="sourceCode cell-code" id="cb16"><pre class="sourceCode r code-with-copy"><code class="sourceCode r"><span id="cb16-1"><a href="#cb16-1" aria-hidden="true" tabindex="-1"></a><span class="fu">set.seed</span>(<span class="dv">777</span>)</span>
+<span id="cb16-2"><a href="#cb16-2" aria-hidden="true" tabindex="-1"></a>n <span class="ot">&lt;-</span> <span class="dv">1000</span></span>
+<span id="cb16-3"><a href="#cb16-3" aria-hidden="true" tabindex="-1"></a>a <span class="ot">&lt;-</span> <span class="dv">3</span></span>
+<span id="cb16-4"><a href="#cb16-4" aria-hidden="true" tabindex="-1"></a>b <span class="ot">&lt;-</span> <span class="dv">2</span></span>
+<span id="cb16-5"><a href="#cb16-5" aria-hidden="true" tabindex="-1"></a>u <span class="ot">&lt;-</span> <span class="fu">rgamma</span>(n, <span class="at">shape =</span> a, <span class="at">rate =</span> <span class="dv">1</span>)</span>
+<span id="cb16-6"><a href="#cb16-6" aria-hidden="true" tabindex="-1"></a>v <span class="ot">&lt;-</span> <span class="fu">rgamma</span>(n, <span class="at">shape =</span> b, <span class="at">rate =</span> <span class="dv">1</span>)</span>
+<span id="cb16-7"><a href="#cb16-7" aria-hidden="true" tabindex="-1"></a>x <span class="ot">&lt;-</span> u <span class="sc">/</span> (u <span class="sc">+</span> v)</span></code></pre></div><button title="Copy to Clipboard" class="code-copy-button"><i class="bi"></i></button></div>
+</div>
+<p>The sample data can be compared with the Beta<span class="math inline">\((3,2)\)</span> distribution using a quantile–quantile (QQ) plot. If the sampled distribution is Beta<span class="math inline">\((3,2)\)</span>, the QQ plot should be nearly linear.</p>
+<div class="cell">
+<div class="code-copy-outer-scaffold"><div class="sourceCode cell-code" id="cb17"><pre class="sourceCode r code-with-copy"><code class="sourceCode r"><span id="cb17-1"><a href="#cb17-1" aria-hidden="true" tabindex="-1"></a>q <span class="ot">&lt;-</span> <span class="fu">qbeta</span>(<span class="fu">ppoints</span>(n), a, b)</span>
+<span id="cb17-2"><a href="#cb17-2" aria-hidden="true" tabindex="-1"></a><span class="fu">qqplot</span>(q, x, <span class="at">cex =</span> <span class="fl">0.25</span>, <span class="at">xlab =</span> <span class="st">"Beta(3, 2)"</span>, <span class="at">ylab =</span> <span class="st">"Sample"</span>)</span>
+<span id="cb17-3"><a href="#cb17-3" aria-hidden="true" tabindex="-1"></a><span class="fu">abline</span>(<span class="dv">0</span>, <span class="dv">1</span>)</span></code></pre></div><button title="Copy to Clipboard" class="code-copy-button"><i class="bi"></i></button></div>
+<div class="cell-output-display">
+<div>
+<figure class="figure">
+<p><img src="03-generating-rv_files/figure-html/unnamed-chunk-2-1.png" class="img-fluid figure-img" width="672"></p>
+</figure>
+</div>
+</div>
+</div>
+</div>
 <hr>
 <p>Reference used:</p>
 <ul>

diff --git a/course/stat8670/index.html b/course/stat8670/index.html
@@ -301,7 +301,7 @@ ul.task-list li input[type="checkbox"] {
 <h2 class="anchored" data-anchor-id="assignment">Assignment</h2>
 <ul class="task-list">
 <li><label><input type="checkbox" checked="">Assignment 1: Due on September 12, 2025</label></li>
-<li><label><input type="checkbox" checked="">Assignment 2: Due on September 22, 2025</label></li>
+<li><label><input type="checkbox">Assignment 2: Due on September 22, 2025</label></li>
 <li><label><input type="checkbox">Assignment 3: TBA</label></li>
 </ul>
 </section>
@@ -343,34 +343,38 @@ ul.task-list li input[type="checkbox"] {
 <td style="text-align: center;">6–7</td>
 </tr>
 <tr class="even">
+<td>Random Variable Generation</td>
+<td style="text-align: center;">8–</td>
+</tr>
+<tr class="odd">
 <td>Numerical integration</td>
 <td style="text-align: center;">TBA</td>
 </tr>
-<tr class="odd">
-<td>Term Exam 1</td>
-<td style="text-align: center;">L13</td>
-</tr>
 <tr class="even">
+<td>Term Exam 1</td>
+<td style="text-align: center;">13</td>
+</tr>
+<tr class="odd">
 <td>Jackknife</td>
 <td style="text-align: center;">TBA</td>
 </tr>
-<tr class="odd">
+<tr class="even">
 <td>Bootstrap</td>
 <td style="text-align: center;">TBA</td>
 </tr>
-<tr class="even">
+<tr class="odd">
 <td>Cross-validation</td>
 <td style="text-align: center;">TBA</td>
 </tr>
-<tr class="odd">
+<tr class="even">
 <td>Smoothing</td>
 <td style="text-align: center;">TBA</td>
 </tr>
-<tr class="even">
+<tr class="odd">
 <td>Density estimation</td>
 <td style="text-align: center;">TBA</td>
 </tr>
-<tr class="odd">
+<tr class="even">
 <td>Monte Carlo Methods</td>
 <td style="text-align: center;">TBA</td>
 </tr>
